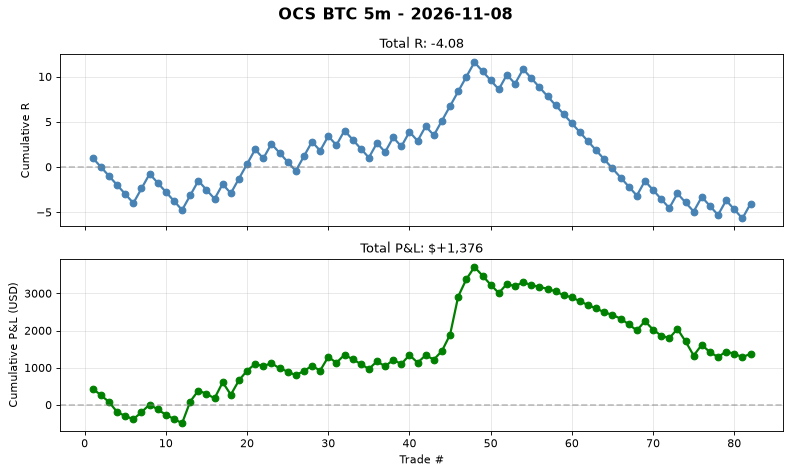
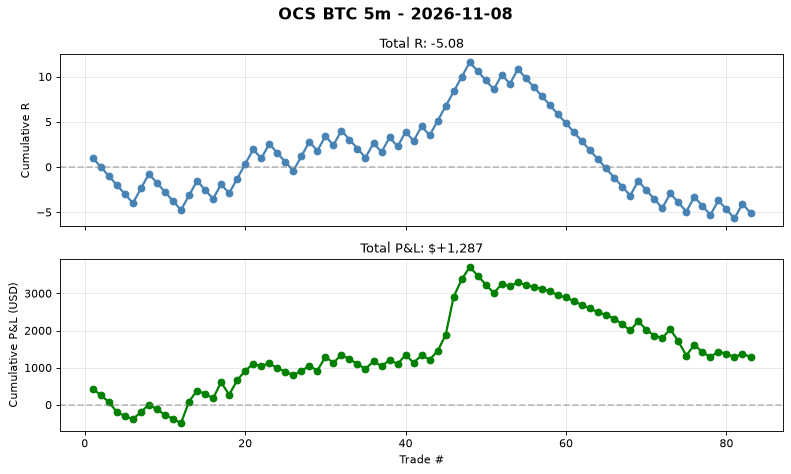
auto(ocs-btc): signal log 2026-11-07T20:06 trades=83

diff --git a/automation/reports/ocs_btc_5m/daily/2026-11-08.md b/automation/reports/ocs_btc_5m/daily/2026-11-08.md
@@ -2,4 +2,4 @@
 
 **No trades today.**
 
-Cumulative stats: 82 trades | WR 36.6% | avg R -0.05
+Cumulative stats: 83 trades | WR 36.1% | avg R -0.061
